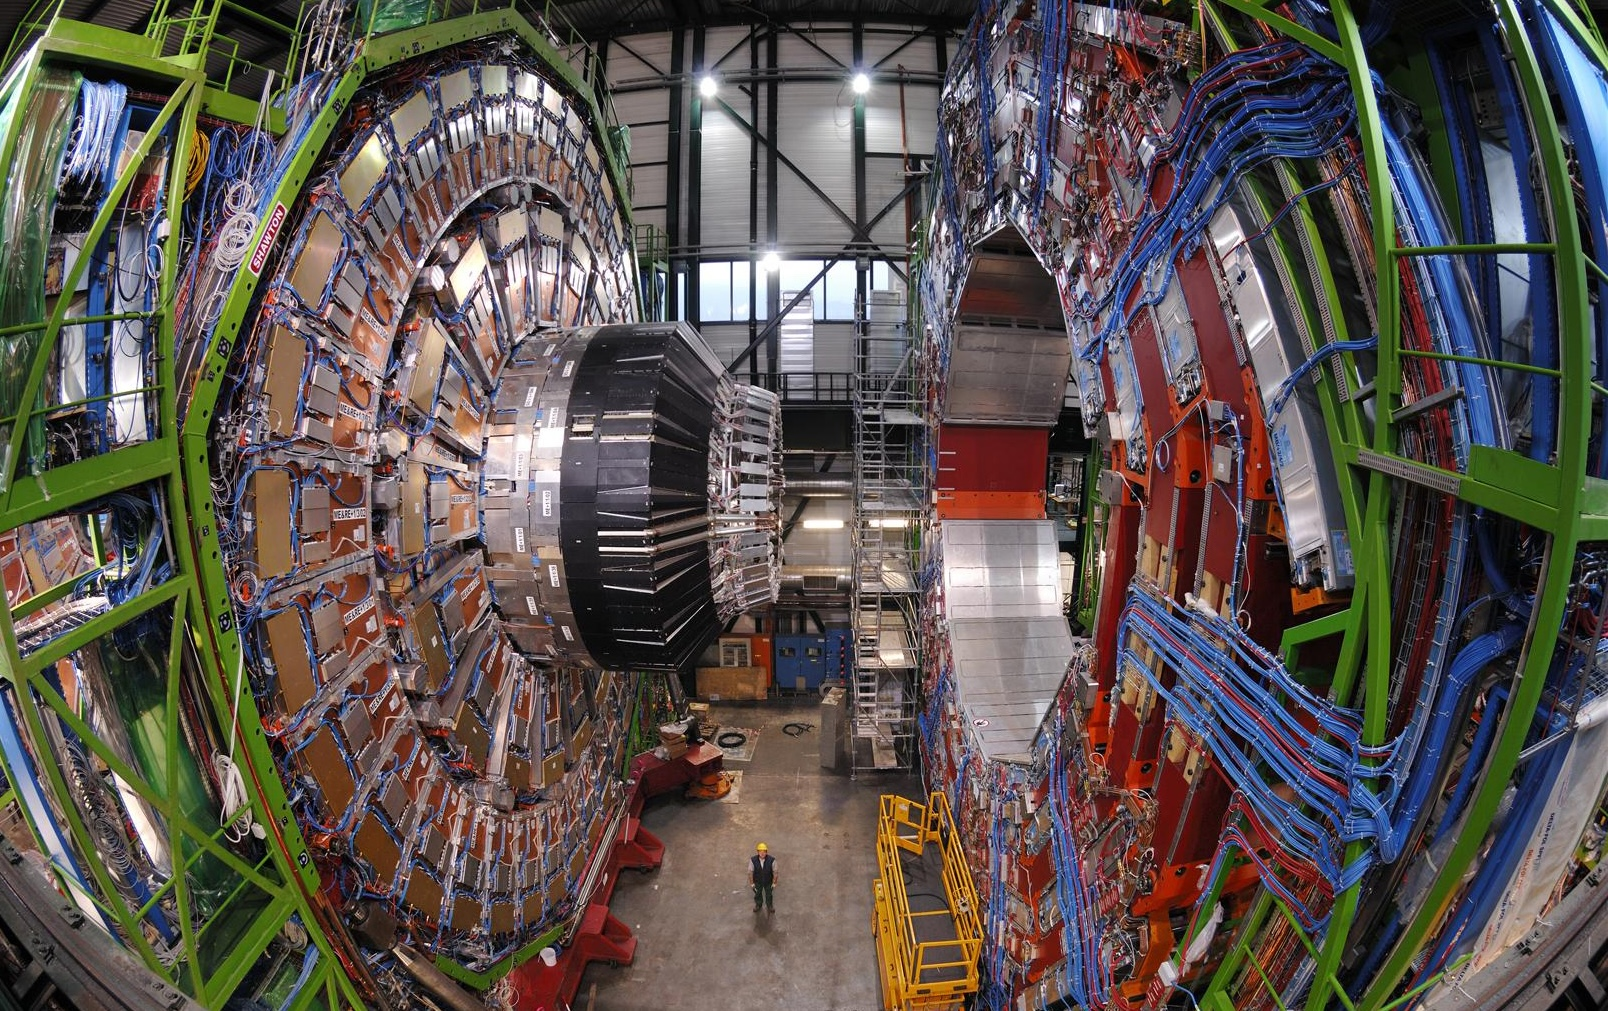
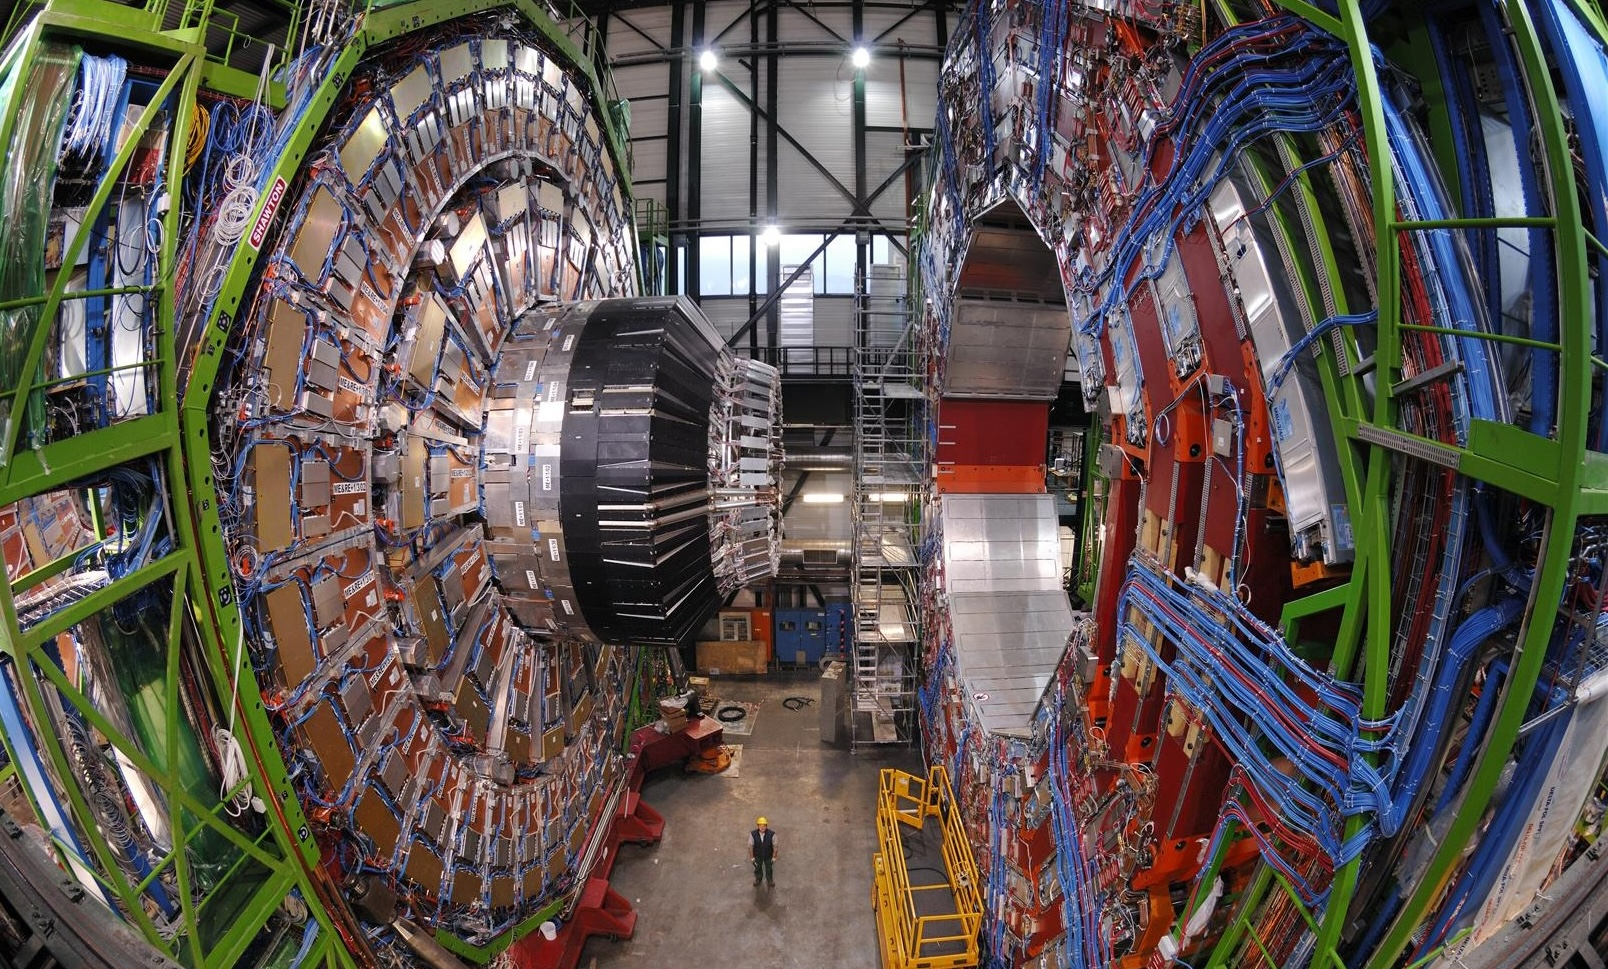
add sailowtech projects

diff --git a/_projects/5_arvor.md b/_projects/5_arvor.md
@@ -1,0 +1,82 @@
+---
+layout: page
+title: Sailowtech | Arvor
+description: Science Coordinator | July 2024 | English Channel 
+img: assets/img/slwt_arv1.jpg
+importance: 5
+category: Volunteer
+---
+
+**Sailowtech Association** • *July–August 2024 — English Channel (La Manche)*  
+[🌐 sailowtech.ch/fr/expeditions/plankton/arvor](https://sailowtech.ch/fr/expeditions/plankton/arvor/)
+
+---
+
+<div class="row">
+    <div class="col-sm mt-3 mt-md-0">
+        {% include figure.liquid loading="eager" path="assets/img/slwt_arv1.jpg" title="example image" class="img-fluid rounded z-depth-1" %}
+    </div>
+</div>
+<div class="caption">
+    The magnificent Mauritius boat that served as our home for this expedition.
+</div>
+
+As **Vice-President for Science**, I oversaw the scientific coordination, mission design, and data-driven direction of the *Arvor 2024 Expedition*.  
+My role involved defining research objectives with EPFL laboratories, supervising onboard data collection, ensuring experimental reproducibility, and integrating results across biology, chemistry, and environmental sensing.  
+I also mentored the student research teams, developed new open-source measurement protocols, and ensured that every scientific activity aligned with Sailowtech’s values of low-tech innovation, open science, and environmental awareness.
+
+The *Arvor Expedition* was Sailowtech’s third major scientific journey, following *Atlantea (2023)* and *Alpine Lake (2024)*.  
+From July 18 to August 11 2024, our 18-member EPFL crew sailed aboard the *Mauritius*, a traditional schooner operated by the Fondation Pacifique, navigating between **Brittany, the Scilly Isles, Cardiff, and Skomer Island (Wales)**.  
+
+Our goals were to:
+- Study the **impact of climate change on planktonic ecosystems**.  
+- Quantify **micro- and nanoplastics** in coastal waters.  
+- Test **low-cost, open-source scientific instruments** designed by students.  
+  
+---
+
+### 🔬 Scientific Program
+
+<div class="row">
+    <div class="col-sm mt-3 mt-md-0">
+        {% include figure.liquid loading="eager" path="assets/img/slwt_arv2.jpg" title="example image" class="img-fluid rounded z-depth-1" %}
+    </div>
+    <div class="col-sm mt-3 mt-md-0">
+        {% include figure.liquid loading="eager" path="assets/img/slwt_arv3.jpg" title="example image" class="img-fluid rounded z-depth-1" %}
+    </div>
+    <div class="col-sm mt-3 mt-md-0">
+        {% include figure.liquid loading="eager" path="assets/img/slwt_arv4.jpg" title="example image" class="img-fluid rounded z-depth-1" %}
+    </div>
+</div>
+<div class="caption">
+    Left: the Open-CO₂ tool. | Middle: Lorraine and I deep in thought about the CTD. | Right: Nils repairing the CTD.
+</div>
+
+- **Plankton Ecology & Microscopy**: sampling and classification of phytoplankton and zooplankton communities, studying their diversity, abundance, and relation to physical-chemical gradients (temperature, salinity, pH, oxygen).
+- **Microplastic Detection (LNET & CEL, EPFL)**: development of a low-cost Raman spectroscopy setup for in-situ identification of microplastics.  
+- **CTD Environmental Profiling (SenseLab, EPFL)**: deployment of a **custom modular CTD probe** measuring: Conductivity, Temperature, Depth, pH, and Dissolved Oxygen.  Data provided essential context for biological and chemical measurements.
+- **CO₂ Degassing Chamber (SenseLab, EPFL)**: prototype of a CO₂ extraction cell for dissolved gas monitoring, designed to evaluate ocean acidification in nearshore waters.
+- **Planktoscope Imaging (LGB, EPFL)**: Testing of an open-source imaging microscope for quantitative plankton observation, enabling high-resolution imagery and AI-assisted classification.
+
+---
+
+### ⚙ Low-Tech & Sustainability
+
+Several student-built low-tech prototypes were tested onboard:
+- Solar tube oven and thermal cooking box (*marmite norvégienne*) to reduce fuel use.  
+- Pedal-powered system for laundry, blending, and energy generation.  
+- Solar desalination prototype for freshwater production.  
+- Secchi disk for transparency and euphotic depth measurement.  
+
+All designs were created from recycled materials and openly documented to promote reproducibility and accessible science.
+
+<div class="row">
+    <div class="col-sm mt-3 mt-md-0">
+        {% include figure.liquid loading="eager" path="assets/img/slwt_arv5.jpg" title="example image" class="img-fluid rounded z-depth-1" %}
+    </div>
+</div>
+<div class="caption">
+    The Sailowtech team with whom I led this expedition.
+</div>
+
+

diff --git a/_projects/6_alpinelake.md b/_projects/6_alpinelake.md
@@ -1,0 +1,74 @@
+---
+layout: page
+title: Sailowtech | Alpine Lake
+description: Science Coordinator | February 2024 | Lake Geneva 
+img: assets/img/slwt0.jpg
+importance: 6
+category: Volunteer
+---
+
+**Sailowtech Association**  
+*February 2024 — Lake Geneva (Léman)*  
+[🌐 sailowtech.ch/expeditions/plankton/alpine-lake](https://sailowtech.ch/fr/expeditions/plankton/alpine-lake/)
+
+---
+
+<div class="row">
+    <div class="col-sm mt-3 mt-md-0">
+        {% include figure.liquid loading="eager" path="assets/img/slwt0.jpg" title="example image" class="img-fluid rounded z-depth-1" %}
+    </div>
+</div>
+<div class="caption">
+    Our expedition boat in the middle of Lake Geneva
+</div>
+
+As **Vice-President for Science (Science Coordinator)**, I led the ****scientific direction and coordination** **of the *Alpine Lake 2024 Expedition*, a 10-day interdisciplinary research mission uniting more than 20 EPFL students.  
+Our goal was to study the effects of climate change on the planktonic ecosystems and sediments of Lake Geneva, while testing new open-source scientific instruments and low-tech environmental monitoring tools.
+
+### 🔬 Scientific Focus
+
+The expedition investigated how nutrient dynamics, temperature gradients, and pollutant concentrations (PFAS) influence plankton diversity and distribution in alpine freshwater systems.
+
+**Main activities:**
+- **Plankton sampling and cultivation** for microscopic structural analysis in collaboration with the *Dudin Lab (EPFL)*.  
+- **Chemical and pollutant assays** with the *CEL Lab (EPFL)* to assess microcontaminant accumulation.  
+- **Environmental profiling** using the *SenseLab’s CTD sensor*, measuring conductivity, temperature, depth, pH, and dissolved oxygen.  
+- **Automated plankton imaging and classification** with an open-source **Planktoscope**, co-developed with the *LGB Lab (EPFL)*.  
+
+This work contributed to developing **accessible, low-cost tools for citizen and academic oceanography**, while generating valuable data for the upcoming *Arvor 2024 marine expedition* in Brittany.
+
+<div class="row">
+    <div class="col-sm mt-3 mt-md-0">
+        {% include figure.liquid loading="eager" path="assets/img/slwt1.jpg" title="example image" class="img-fluid rounded z-depth-1" %}
+    </div>
+    <div class="col-sm mt-3 mt-md-0">
+        {% include figure.liquid loading="eager" path="assets/img/slwt2.jpg" title="example image" class="img-fluid rounded z-depth-1" %}
+    </div>
+    <div class="col-sm mt-3 mt-md-0">
+        {% include figure.liquid loading="eager" path="assets/img/slwt3.jpg" title="example image" class="img-fluid rounded z-depth-1" %}
+    </div>
+</div>
+<div class="caption">
+    Left: Lorraine and I after our first attempt at plankton netting. | Middle: I see the first rays of sunshine of the expedition. | Right: labelling the samples.
+</div>
+
+---
+
+### ⚙ Low-Tech & Open Science
+
+In parallel, the expedition served as a testbed for low-tech prototypes, including:  
+- A **solar oven** and **thermal cooking box (*marmite norvégienne*)** to reduce gas consumption on board.  
+- A **Secchi disk** for qualitative assessment of water transparency and photosynthetic activity.  
+
+All instruments and documentation were shared under open-science principles, promoting reproducibility, accessibility, and community collaboration in environmental research.
+
+
+<div class="row">
+    <div class="col-sm mt-3 mt-md-0">
+        {% include figure.liquid loading="eager" path="assets/img/slwt4.jpg" title="example image" class="img-fluid rounded z-depth-1" %}
+    </div>
+</div>
+<div class="caption">
+    The Sailowtech team with whom I led this expedition.
+</div>
+

diff --git a/_projects/1_eerl.md b/_projects/1_eerl.md
@@ -4,8 +4,7 @@ title: Autonomous Sensing in Polar Regions.
 description: Master Thesis + Research Engineer (EERL) | 2025.03 - 2026.01
 img: assets/img/eerl2.jpg
 importance: 1
-category: work
-related_publications: false
+category: Academic
 ---
 
 Atmospheric aerosols — tiny particles suspended in the air — play a crucial role in Earth’s climate by influencing solar radiation and cloud formation. Yet, understanding their vertical distribution, especially in remote regions like the Arctic, remains a major challenge for accurate climate modeling. To tackle this, I contributed to the improvement of the [Modular Multiplatform Compatible Air System (MoMuCAMS)](https://amt.copernicus.org/articles/17/731/2024/) at the Extreme Environments Research Laboratory (EERL), a tethered-balloon platform designed for in situ measurements of aerosols and trace gases in the lower troposphere under harsh environmental conditions.

diff --git a/_projects/4_cern.md b/_projects/4_cern.md
@@ -4,7 +4,7 @@ title: Deep Learning for Dynamic Aperture Measurement
 description: Master Project (CERN) | 2022.09 - 2023.01
 img: assets/img/cern.jpg
 importance: 4
-category: work
+category: Academic
 ---
 
 The **Dynamic Aperture (DA)** is a key concept in accelerator physics, defining the region of phase space where particle motion remains stable over time. Its accurate measurement is crucial for understanding beam losses and improving the operation of accelerators such as the LHC at CERN, as well as for designing future accelerators. Traditional methods approximate the DA as a regular circle or rely on numerical integration, which can be slow or insufficiently precise due to nonlinear effects that create complex, irregular shapes.

diff --git a/_projects/3_lys.md b/_projects/3_lys.md
@@ -4,8 +4,7 @@ title: Robot Locomotion Learning with Imitation
 description: Master Project (LIS) | 2024.02 - 2024.07
 img: assets/img/il1.jpg
 importance: 3
-category: work
-giscus_comments: false
+category: Academic
 ---
 
 Learning complex behaviors in high-dimensional action and state spaces, such as animal locomotion, is a major challenge in robotics. This project explores the use of **Imitation Learning (IL)** to train animal-shaped robots in the MuJoCo simulator by leveraging online videos of animals as expert demonstrations.  

diff --git a/_projects/2_rp.md b/_projects/2_rp.md
@@ -4,7 +4,7 @@ title: AI for Bioacoustic Detection of Coral Reefs
 description:  Master Internship (ReefPulse) | 2024.09 - 2025.03
 img: assets/img/rp.jpg
 importance: 2
-category: work
+category: Academic
 ---
 
 During my internship at **Reef Pulse**, I developed and implemented **deep learning models** for detecting and classifying bioacoustic events around coral reefs. Reef Pulse focuses on continuous monitoring of reef ecosystems using soundscapes and AI to provide scalable and objective assessments of reef health.  

diff --git a/_pages/projects.md b/_pages/projects.md
@@ -5,7 +5,7 @@ permalink: /projects/
 description: A growing collection of your cool projects.
 nav: true
 nav_order: 2
-display_categories: [work, fun]
+display_categories: [Academic, Volunteer]
 horizontal: false
 ---
 
